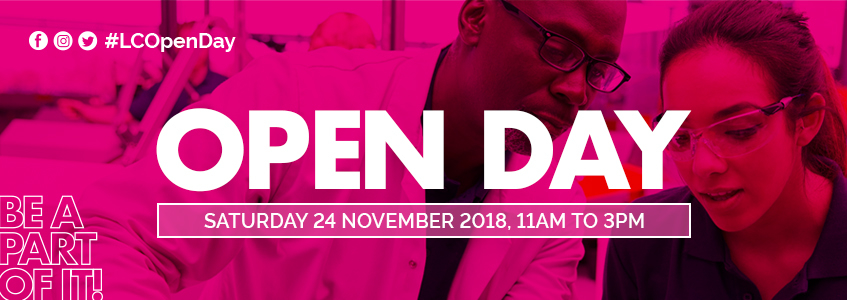
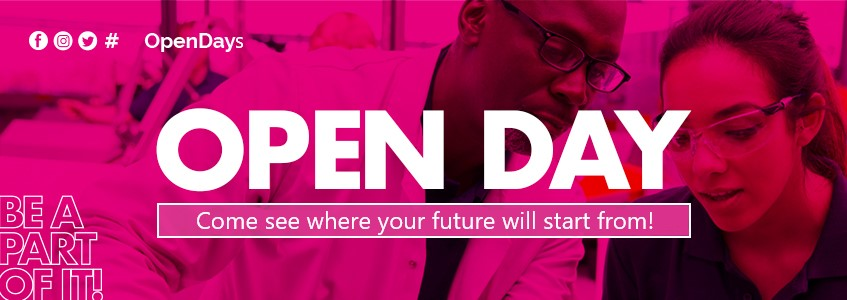
Change fonts on titles and redirect to profile on login

diff --git a/public/js/script.js b/public/js/script.js
@@ -31,26 +31,3 @@ function validateSize(input) {
         // Proceed further
     }
 }
-
-// // Example starter JavaScript for disabling form submissions if there are invalid fields
-// (function() {
-//     'use strict'
-
-//     // Fetch all the forms we want to apply custom Bootstrap validation styles to
-//     var forms = document.querySelectorAll('.needs-validation')
-
-//     // Loop over them and prevent submission
-//     Array.prototype.slice.call(forms)
-//         .forEach(function(form) {
-
-//             form.addEventListener('submit', function(event) {
-//                 if (!form.checkValidity()) {
-//                     event.preventDefault()
-//                     event.stopPropagation()
-//                 }
-
-//                 form.classList.add('was-validated')
-//             }, false)
-
-//         })
-// })()

diff --git a/controllers/homepageController.js b/controllers/homepageController.js
@@ -6,10 +6,12 @@ const { findUserByEmail } = require("../services/loginService")
 let getHomepage = (req, res) => {
     if (!req.user) {
         var user = false
-        res.render('index', { user: user })
+        var isAuth = req.isAuthenticated()
+        res.render('index', { user: user, isAuth: isAuth })
     } else {
         var user = req.user
-        return res.render('index', { user: user })
+        var isAuth = req.isAuthenticated()
+        return res.render('index', { user: user, isAuth: isAuth })
     }
 }
 

diff --git a/controllers/dataController.js b/controllers/dataController.js
@@ -215,6 +215,7 @@ let deleteAttender = function(req, res) {
 }
 
 let getMyEvents = function(req, res) {
+    console.log(req.user.roleId);
     if ([2, 3].includes(req.user.roleId)) {
         let isAuth = req.isAuthenticated()
         models.Event.findOne({
@@ -229,6 +230,8 @@ let getMyEvents = function(req, res) {
         }).catch(function(err) {
             console.log(err);
         });
+    } else {
+        res.redirect('/404.ejs')
     }
 }
 

diff --git a/routes/web.js b/routes/web.js
@@ -63,7 +63,7 @@ module.exports = {
         router.post("/findAttender", dataController.findAttender)
         router.post("/attender/delete", dataController.deleteAttender)
         router.post("/login", passport.authenticate('local', {
-            successRedirect: "/",
+            successRedirect: "/profile",
             failureRedirect: "/login",
             successFlash: true,
             failureFlash: true

diff --git a/models/user.js b/models/user.js
@@ -30,6 +30,7 @@ module.exports = (sequelize, DataTypes) => {
         email: {
             type: DataTypes.STRING,
             allowNull: false,
+            unique: true,
             validate: {
                 notNull: { msg: 'You need to insert a email' },
                 notEmpty: { msg: 'email must not be empty' },

diff --git a/migrations/20220407134101-create-user.js b/migrations/20220407134101-create-user.js
@@ -30,6 +30,7 @@ module.exports = {
             email: {
                 type: DataTypes.STRING,
                 allowNull: false,
+                unique: true,
                 validate: {
                     notEmpty: true
                 }

diff --git a/public/css/style.css b/public/css/style.css
@@ -7,6 +7,11 @@
     font-family: 'Poppins', sans-serif;
 }
 
+.img-max {
+    max-width: 500px;
+    width: 100%;
+}
+
 .profile {
     text-align: center;
     font-size: 4rem;
